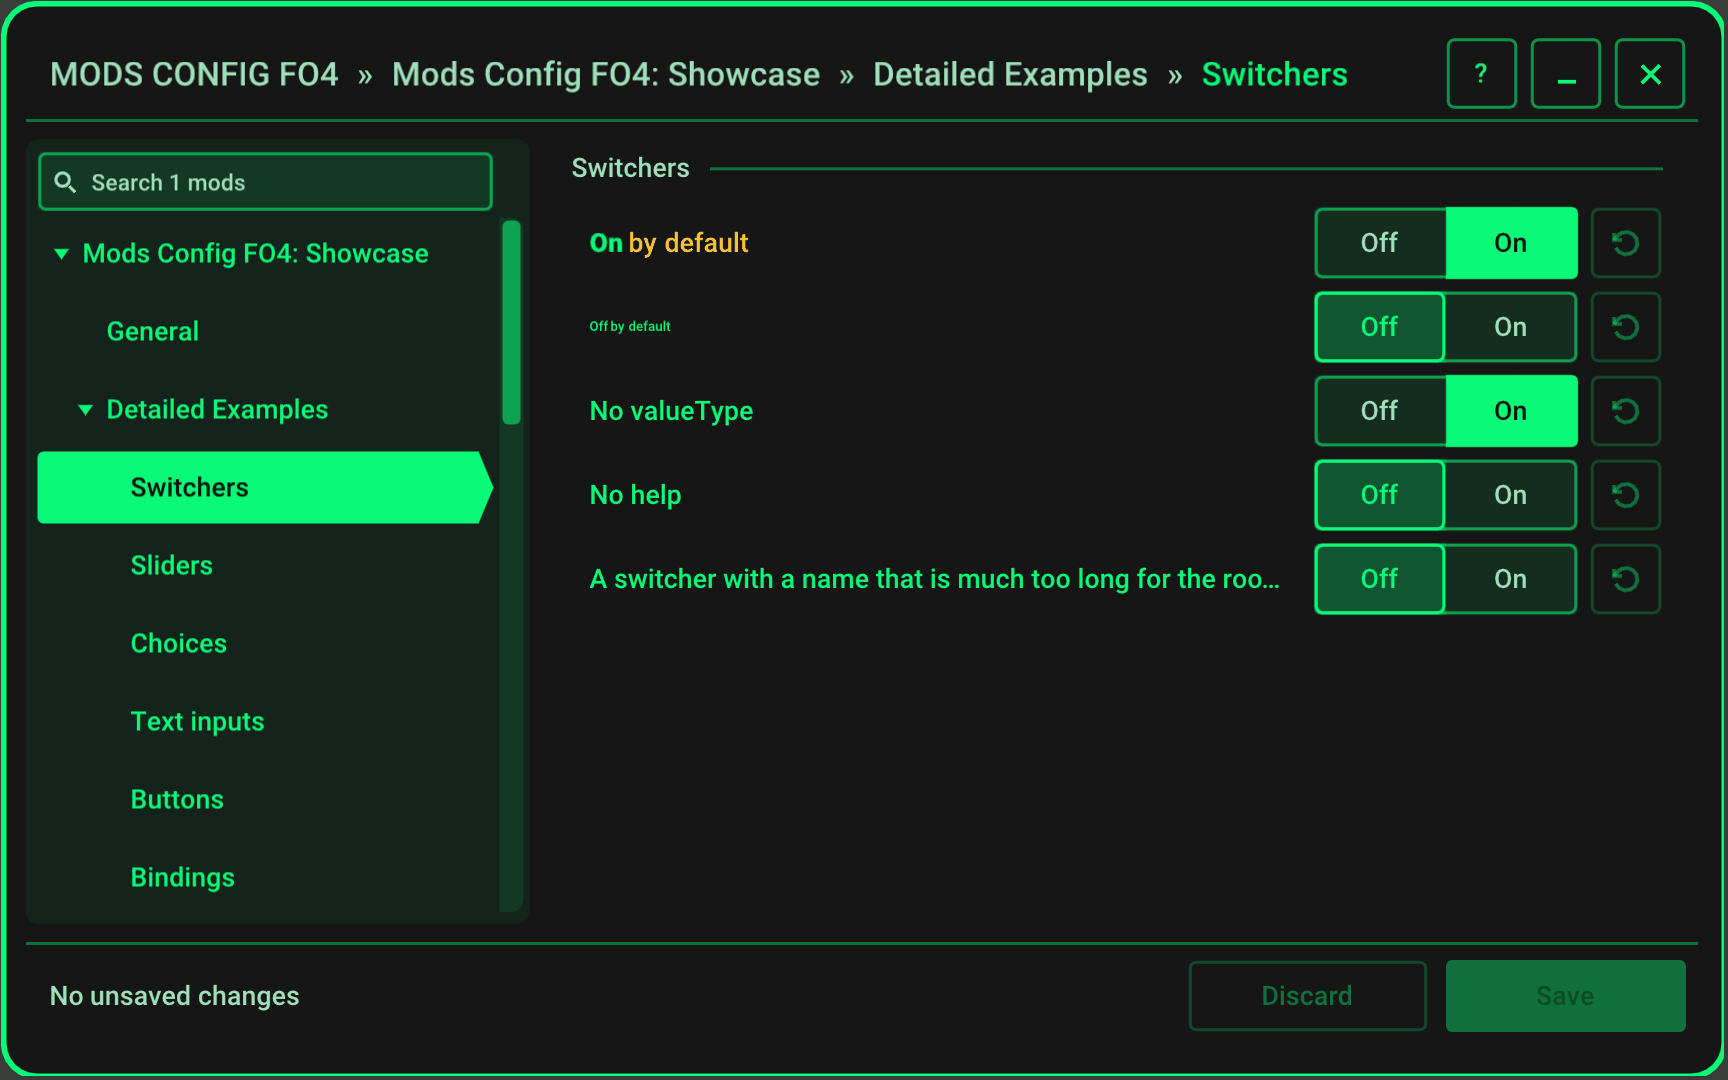
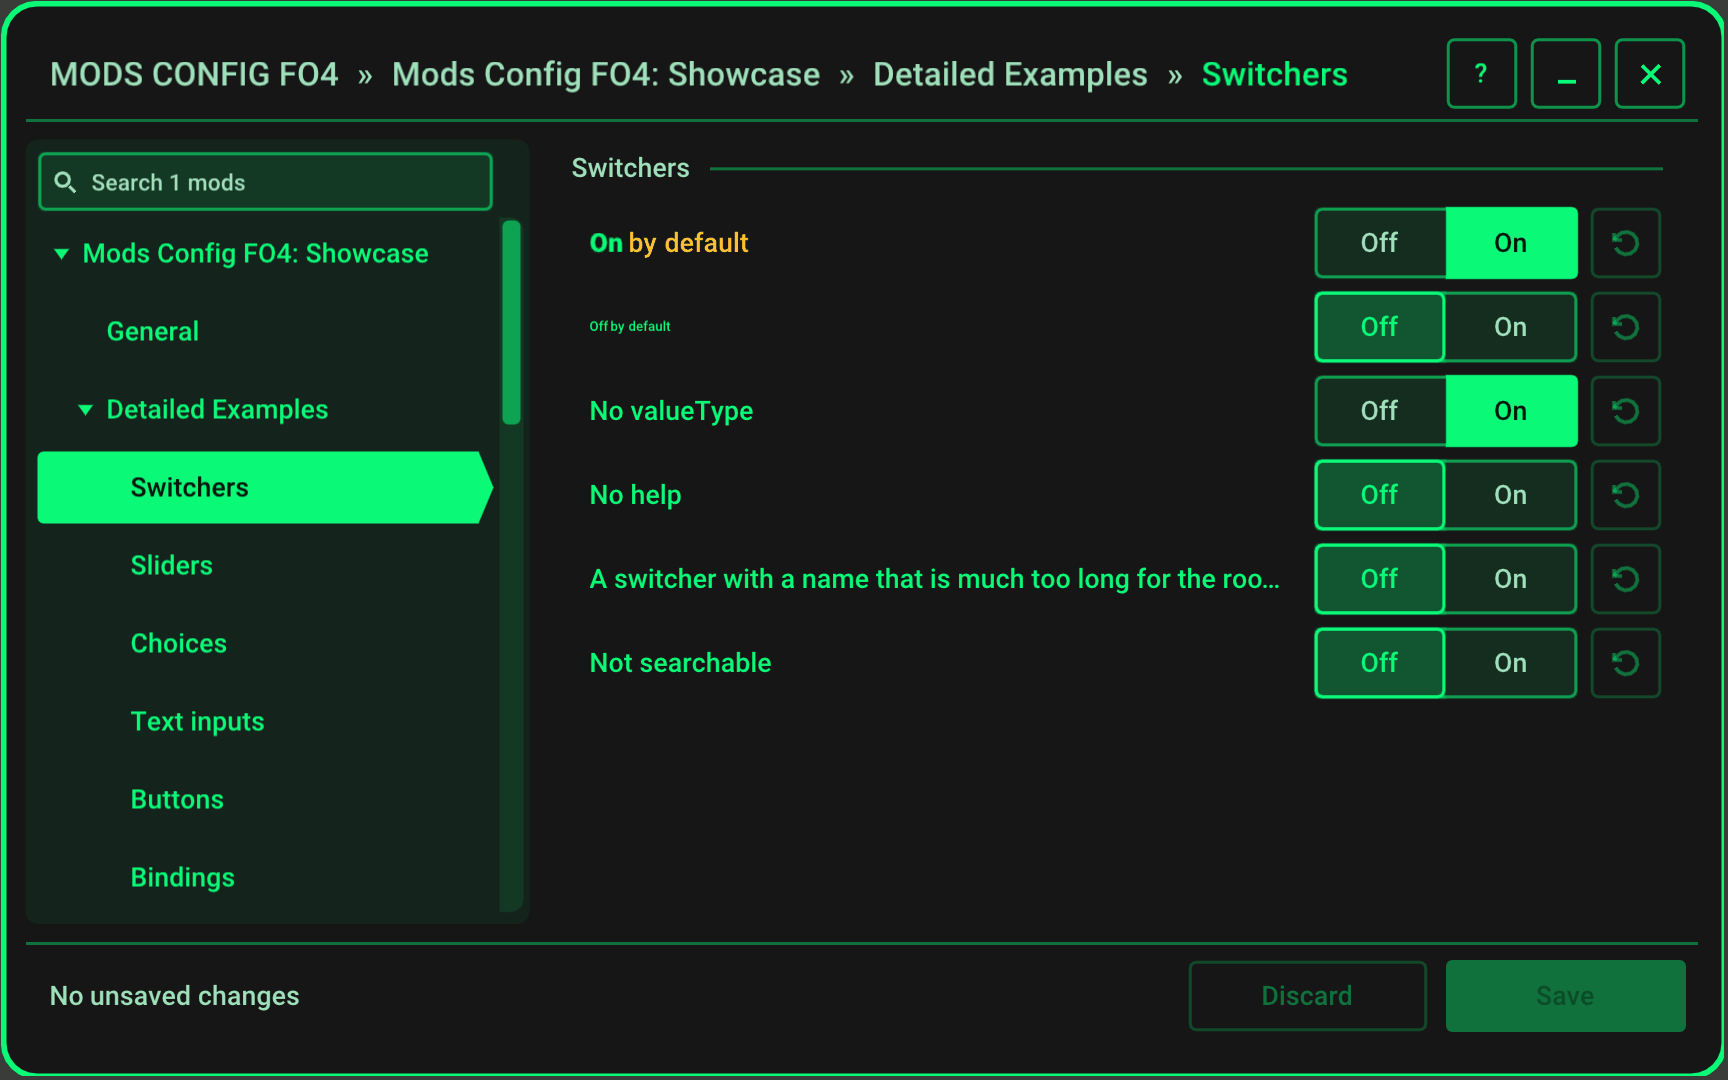
feat: a setting can stay out of search (searchable)
A setting with "searchable": false isn't found by its own text, only
with a section, page or mod that matches. It is for rows named after
what search finds already, as the menu's Categories rows, one per mod.

Changed region(s): [[0.75, 0.5806, 0.9688, 0.6722], [0.3438, 0.6111, 0.4375, 0.6417]]

diff --git a/src/spec/SettingSpec.cpp b/src/spec/SettingSpec.cpp
@@ -23,7 +23,7 @@ namespace mods_config::spec
     namespace
     {
         // the fields of a setting row and of its parts, as the schema has them (docs/design/schema.md)
-        constexpr std::array<std::string_view, 18> SETTING_FIELDS{ "type",
+        constexpr std::array<std::string_view, 19> SETTING_FIELDS{ "type",
             "id",
             "text",
             "help",
@@ -40,7 +40,8 @@ namespace mods_config::spec
             "applies",
             "visibleWhen",
             "enabledWhen",
-            "countsAs" };
+            "countsAs",
+            "searchable" };
         // a setting's parts:
         constexpr std::array<std::string_view, 23> VALUE_OPTIONS_FIELDS{ "min",
             "max",
@@ -247,6 +248,24 @@ namespace mods_config::spec
                     "Its default is not one of its values: outside its limits, of a length it does not allow, or none of its options. It has no Reset.");
             }
             return std::nullopt;
+        }
+
+        /**
+         * Whether a search finds the row by its text: unless its `searchable` is false. One that is not true or false
+         * is left out, which is reported.
+         */
+        bool loadSearchable(const Json& row, ConfigSpecReading& reading)
+        {
+            const auto found = row.find("searchable");
+            if (found == row.end()) {
+                return true;
+            }
+            if (!found->is_boolean()) {
+                const Into into(reading, "searchable");
+                reading.report(model::Severity::Warning, "Its searchable is not true or false: it is left out, and search finds the row.");
+                return true;
+            }
+            return found->get<bool>();
         }
 
         // the most decimals a number's display can have, as MCM's menu writes a number at the most
@@ -624,7 +643,7 @@ namespace mods_config::spec
             .readOnly = readOnly,
             .warnings = {},
             .omitDefault = omitDefault,
-            .notSearched = false,
+            .notSearched = !loadSearchable(row, reading),
             .countsAs = countsAs };
     }
 

diff --git a/tests/linked/spec/ConfigSpecLoaderTests.cpp b/tests/linked/spec/ConfigSpecLoaderTests.cpp
@@ -208,6 +208,23 @@ TEST_CASE("ConfigSpecLoader: a section folds with isCollapsible, starts folded w
     CHECK(folds == std::vector<Fold>{ {}, { .help = "Opens and closes.", .collapsible = true }, { .collapsible = true, .collapsed = true }, {}, {} });
 }
 
+TEST_CASE("ConfigSpecLoader: a setting with searchable false is not found by its text, and one that is not true or false is a warning")
+{
+    const auto mod = loaded(configSpecOf(R"(
+        { "type": "switcher", "text": "Hidden", "default": false, "searchable": false, "storage": { "path": ["a"] } },
+        { "type": "switcher", "text": "Found", "default": false, "searchable": true, "storage": { "path": ["b"] } },
+        { "type": "switcher", "text": "Plain", "default": false, "storage": { "path": ["c"] } },
+        { "type": "switcher", "text": "Not a bool", "default": false, "searchable": "no", "storage": { "path": ["d"] } }
+    )"));
+    const auto settings = settingsOf(mod);
+    REQUIRE(settings.size() == 4);
+    CHECK(settings[0].notSearched);
+    CHECK_FALSE(settings[1].notSearched);
+    CHECK_FALSE(settings[2].notSearched);
+    CHECK_FALSE(settings[3].notSearched);
+    CHECK(problemLines(mod) == Lines{ "W Not a bool: Its searchable is not true or false: it is left out, and search finds the row. [Not a bool] content[3].searchable" });
+}
+
 TEST_CASE("ConfigSpecLoader: a section's maxOn limits its switchers, in its nested sections too, and a switcher under one counts by its countsAs")
 {
     const auto mod = loaded(configSpecOf(R"(

diff --git a/tests/linked/model/SearchTests.cpp b/tests/linked/model/SearchTests.cpp
@@ -241,12 +241,12 @@ TEST_CASE("Search: the items it shows are its rows and the sections they are in,
     CHECK(found->rows == std::unordered_set<const model::Item*>{ &rows[0], &rows[1] });
 }
 
-TEST_CASE("Search: a row the menu makes is not found by its text, and is shown with its page that is found by its name")
+TEST_CASE("Search: a row that is not searchable is not found by its text, and is shown with its page that is found by its name")
 {
     model::Mod mod{ .name = "Menu", .displayName = "Menu", .frontPage = {}, .pages = {} };
-    auto made = std::get<model::Setting>(setting("Flashlight"));
-    made.notSearched = true;
-    mod.pages.push_back(page("Categories", { made, setting("Flashlight width") }));
+    auto hidden = std::get<model::Setting>(setting("Flashlight"));
+    hidden.notSearched = true;
+    mod.pages.push_back(page("Categories", { hidden, setting("Flashlight width") }));
 
     // by the row's text, only the row that is searched is found
     auto found = model::searchMod(mod, SearchQuery("flashlight"), nullptr);

diff --git a/src/model/Search.cpp b/src/model/Search.cpp
@@ -303,7 +303,7 @@ namespace
                 const bool shown = std::visit(
                     [this, all]<typename T>(const T& row) {
                         if constexpr (std::is_same_v<T, Setting>) {
-                            // a row the menu makes is shown with its section or its page, and not found by its own text
+                            // a row that is not searchable is shown with its section or its page, and not found by its own text
                             return (!row.visibleWhen || holds(*row.visibleWhen, _store)) && (all || (!row.notSearched && matches(fold(row.text))));
                         } else if constexpr (std::is_same_v<T, Button> || std::is_same_v<T, Hotkey> || std::is_same_v<T, Placeholder>) {
                             return (!row.visibleWhen || holds(*row.visibleWhen, _store)) && (all || matches(fold(row.text)));

diff --git a/tests/e2e/test_search.py b/tests/e2e/test_search.py
@@ -59,6 +59,16 @@ def test_back_shows_the_page_whole_and_keeps_the_query(menu):
     assert state["search"]["filtered"], "another page shown while searching is filtered"
 
 
+def test_a_row_that_is_not_searchable_is_not_found_by_its_name(menu):
+    menu.select(CONFIG_SPEC_SHOWCASE, ("Detailed Examples", "Switchers"))
+    search(menu, "not searchable")
+    assert not menu.setting("Not searchable")["found"]
+
+    # its page found by its name shows it with the page's other rows
+    search(menu, "switchers")
+    assert menu.setting("Not searchable")["found"]
+
+
 def test_a_row_a_condition_hides_is_not_found(menu):
     menu.select(CONFIG_SPEC_SHOWCASE, CONDITIONS)
     search(menu, "in the section")

diff --git a/src/model/ConfigDefinition.h b/src/model/ConfigDefinition.h
@@ -742,7 +742,8 @@ namespace mods_config::model
         // and so do the menu's Categories rows
         bool omitDefault = false;
 
-        // a search does not find the row by its text: only a setting the menu makes has it
+        // a search does not find the row by its text (`"searchable": false`), as the menu's Categories rows, named
+        // after the mods a search finds already. It is still shown with a section or a page that matches
         bool notSearched = false;
 
         // how many places of its sections' limits a switcher takes while it is on (`countsAs`): one, or more for a

diff --git a/docs/agents/components.md b/docs/agents/components.md
@@ -59,7 +59,7 @@ Nothing in `src/ui/` touches the game, so the tests draw it. Looks follow the [d
 | **Setting values** | [src/model/SettingValues.h](../../src/model/SettingValues.h) / [.cpp](../../src/model/SettingValues.cpp) | The setting value rules, by setting type: `sameValue`, `canonicalValue`, `valueProblem` (why a value is invalid), `readJsonValue` (a config spec's `default` and an option's set value), `asStoredType` (a value of the game as a stored type, as Papyrus casts it), `isChoice` (a haptic is one), `isTableType` / `keptAsTable`, `isFrameworkType`. One switch per question over the type modules (`Colors`, `Transforms`, `InputBindings`, `Haptics`); the loader, both stores and the setting row ask it, and keep no copy. A new setting type adds its case here. Devbench reads its values its own way: a table as its TOML text or INI line. `readJsonValue` returns a `ValueReadError` kind, so each loader caller keeps its own sentence. |
 | **Store** | [src/model/Store.h](../../src/model/Store.h) | The interface the UI asks for every value: read/set, validity, dirty, Save/Discard, defaults, options, client state, actions (`ActionResult`, `notRunnable`), `readAgain`, `showPage`/`showPointed`, `readPageContent` (a dynamic page's rows). A session opens on selecting a mod and closes on leaving it. Its read part, `StoreReader` (value, value by id, dirty, applies, client state, game INI setting), is what the read-only helpers take: conditions, search, text states, unsaved pages, `withPendingChoices`, the row view and `warningOf`, so their test doubles implement only those. |
 | **Conditions** | [src/model/Conditions.h](../../src/model/Conditions.h) / [.cpp](../../src/model/Conditions.cpp) | Evaluating conditions. A condition left open by an unavailable value holds (row shown) but does not `surelyHolds` (warning not told). |
-| **Search** | [src/model/Search.h](../../src/model/Search.h) / [.cpp](../../src/model/Search.cpp) | `searchMod`: word-prefix, accent- and case-folded matching (CJK: substring); the most specific match wins. `matchRanges` for underlines. A `notSearched` setting isn't matched by its text. |
+| **Search** | [src/model/Search.h](../../src/model/Search.h) / [.cpp](../../src/model/Search.cpp) | `searchMod`: word-prefix, accent- and case-folded matching (CJK: substring); the most specific match wins. `matchRanges` for underlines. A `notSearched` setting (`"searchable": false`) isn't matched by its text. |
 | **Categories** | [src/model/Categories.h](../../src/model/Categories.h) / [.cpp](../../src/model/Categories.cpp) | The shipped table (`Categories.json`), the player's choices (`Categories.toml`), a mod's category (`categoryOf`: choice, own, table), the grouping of the tree, and the rows of the Categories page with their options. Names match case-insensitively (`categoryKey`). |
 | **Option sets** | [src/model/OptionSets.h](../../src/model/OptionSets.h) / [.cpp](../../src/model/OptionSets.cpp) | A choice whose options set other settings (`SetsStorage`): matching an option's value with a setting's (`hasSetValue`, a color's and a transform's on the parts it names) and setting it (`withSetValue`). The config spec store derives the choice's value, dirty state, default and Discard from those settings; the change counts skip it. An option's `alsoSets` are set by a pick and count for dirty state and Discard, but never decide the value. |
 | **Choice options** | [src/model/ChoiceOptions.h](../../src/model/ChoiceOptions.h) / [.cpp](../../src/model/ChoiceOptions.cpp) | Options of a mod's choices: own, from its client, or read in the game (`getOptionTexts`). `typedOptionValue` turns a typed text into a value. |

diff --git a/docs/design/ui-and-vr-interaction.md b/docs/design/ui-and-vr-interaction.md
@@ -258,6 +258,7 @@ The tree's header is a search field that finds a setting by name across all mods
 - Idle, it says what it searches: "Search 11 mods". A press shows the keyboard as a text input does, filtering per key. Done and the keyboard's close keep the query; closing the menu empties it.
 - It matches the names the player sees: mod display name, page, section heading, and the text of a setting, button or hotkey, config spec and MCM alike (an MCM row's text from the game too); not help or text rows. Each query word must start a word of the name, any order, ignoring case and accents: "hol siz" finds "Holster size". A Chinese, Japanese or Korean word matches anywhere.
 - A word can match the row's mod, page or section name, as long as one word matches the row's own: "frik height" finds FRIK's Height.
+- A setting with [`"searchable": false`](schema.md#settings) isn't found by its own text, only with its section, page or mod.
 - The most specific match wins: a matching section, page or mod shows everything under it only when nothing under it matches.
 - In the selected mod, a setting hidden by a condition isn't found. Other mods' values aren't read, so their conditions hold and their hidden settings are found.
 - With a query, the tree is flat: only mods with a match, each expanded to its matching pages, with counts on the right (a mod's row counts its front page). A mod found only by name is closed, with its total, until selected. Matches are underlined.

diff --git a/docs/design/schema.md b/docs/design/schema.md
@@ -241,6 +241,7 @@ Sections and pages both nest.
 
 - Every row (setting, section, button, choice option) has `text` (what it says) and optional `help` (help line), MCM's names.
 - `"html": true` styles a setting's or button's `text` with the [text tags](#text-spacers-and-images), kept to one line: breaks become spaces, alignment is ignored, font sizes cap at the row size. Search and the help line use the untagged label. Only the boolean `true` enables it. `help`, `buttonText`, section headings and options stay plain.
+- `"searchable": false` keeps a setting out of [search](ui-and-vr-interaction.md#search) by its text: it is shown only with a section, page or mod that matches. It is for rows named after something search finds already, as the menu's Categories rows, one per mod. A value that isn't true or false is a warning, and the row is searchable.
 - Every writable setting has a required inline `default`, validated like a player value. It is what Reset sets, so it must match the mod's own default.
 - A `textinput` with `valueType` `int`/`float` takes a number (MCM's `textinputInt`/`textinputFloat`), limited by `min`/`max`.
 

diff --git a/docs/changelog.md b/docs/changelog.md
@@ -12,6 +12,7 @@
 - For mod authors: a page with `contentFromClientCallback` gets its rows from the mod's DLL as it is shown, for rows that depend on the game right now, as the items the player carries. The native client gives them with `addPageContent`, API version 2.
 - For mod authors: a `string` dropdown with `allowTyped` also takes a value the player types, of the lengths its `minLength` and `maxLength` allow. Its list shows a value that is none of its options after them.
 - The entry that types a name of your own, last in a dropdown's list, is now **Type your own**.
+- For mod authors: a setting with `"searchable": false` isn't found by search by its name, only with its section, page or mod, for rows named after what search finds already.
 
 ## v1.0.1
 

diff --git a/docs/for-mod-authors/showcase.md b/docs/for-mod-authors/showcase.md
@@ -43,6 +43,8 @@ On or off, a `bool`, written to a TOML file as `true` or `false` and to an INI f
 
 ![Switchers](../assets/showcase/switchers.png)
 
+Any setting can have `"searchable": false`, as **Not searchable** has: search doesn't find it by its name, only with its section, page or mod. It is for rows named after something search finds already, as the menu's Categories rows, one per mod. See [Settings](../design/schema.md#settings).
+
 ### Sliders
 
 A number in a range. `valueOptions` has its `min`, `max` and `step`, and the arrows at its ends step it.
